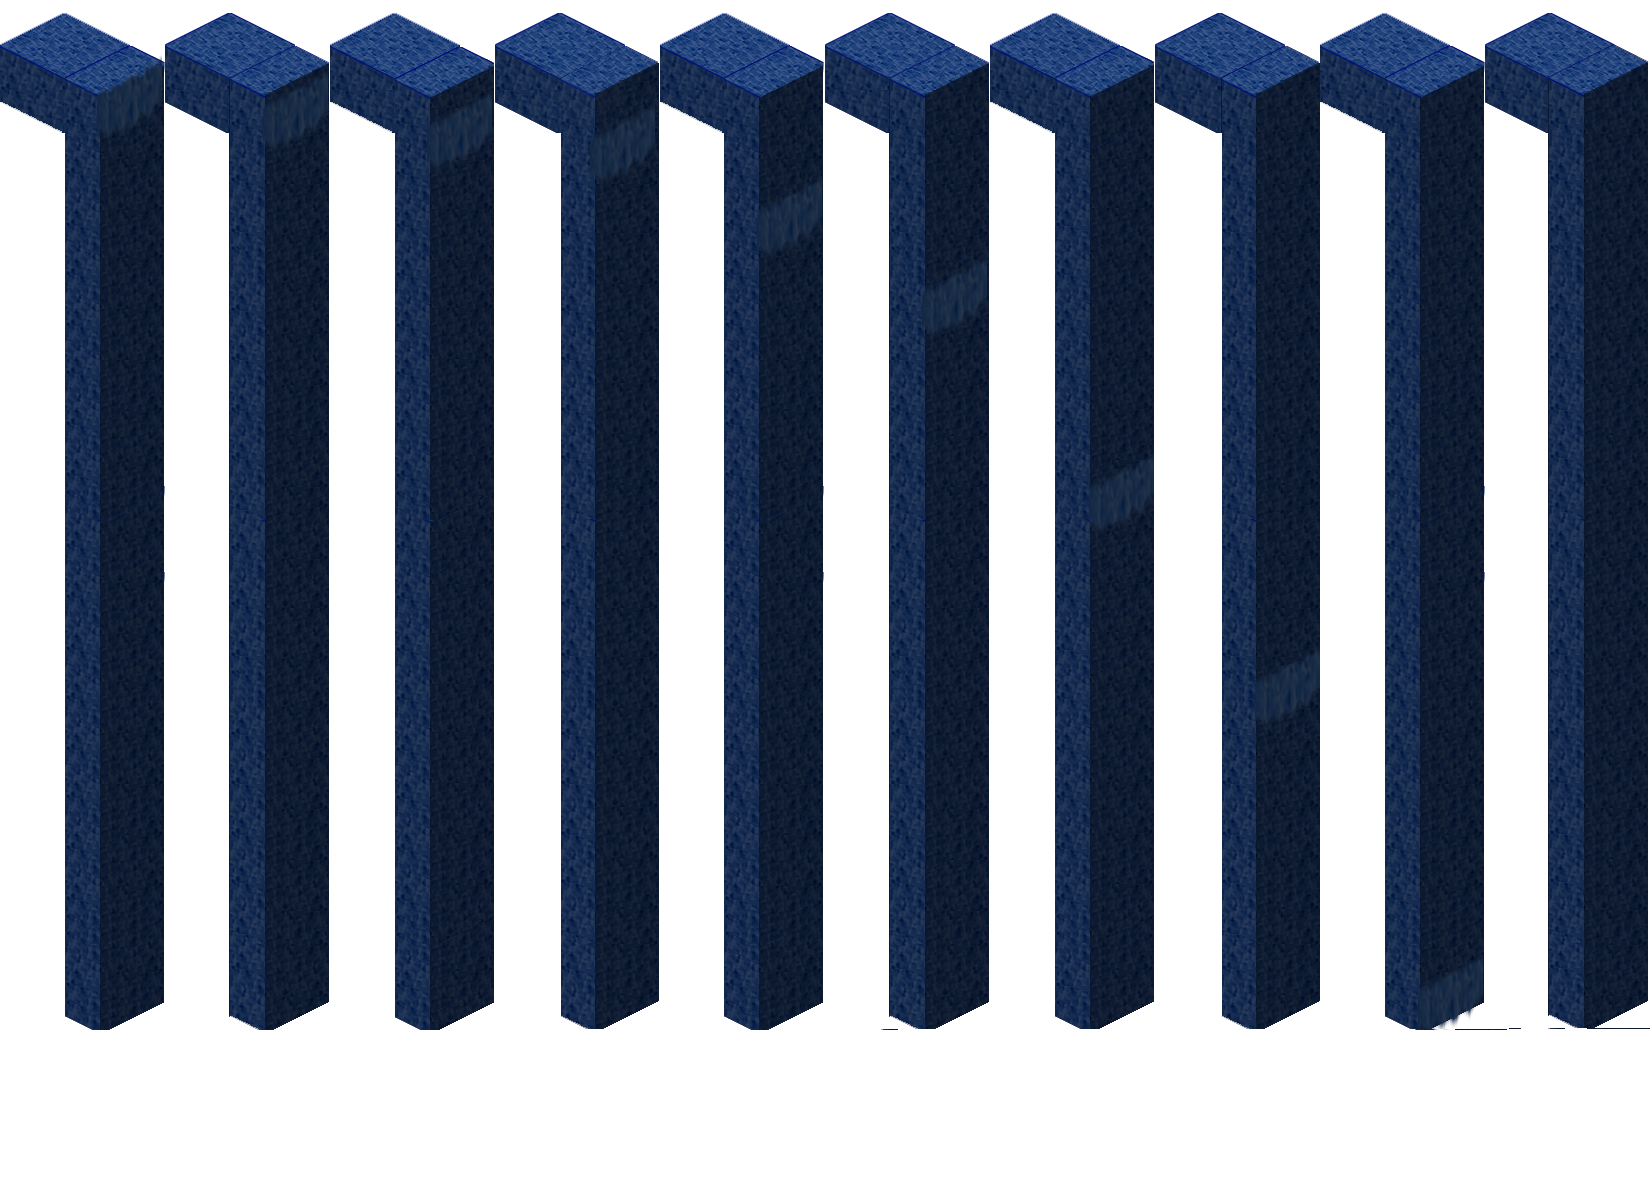
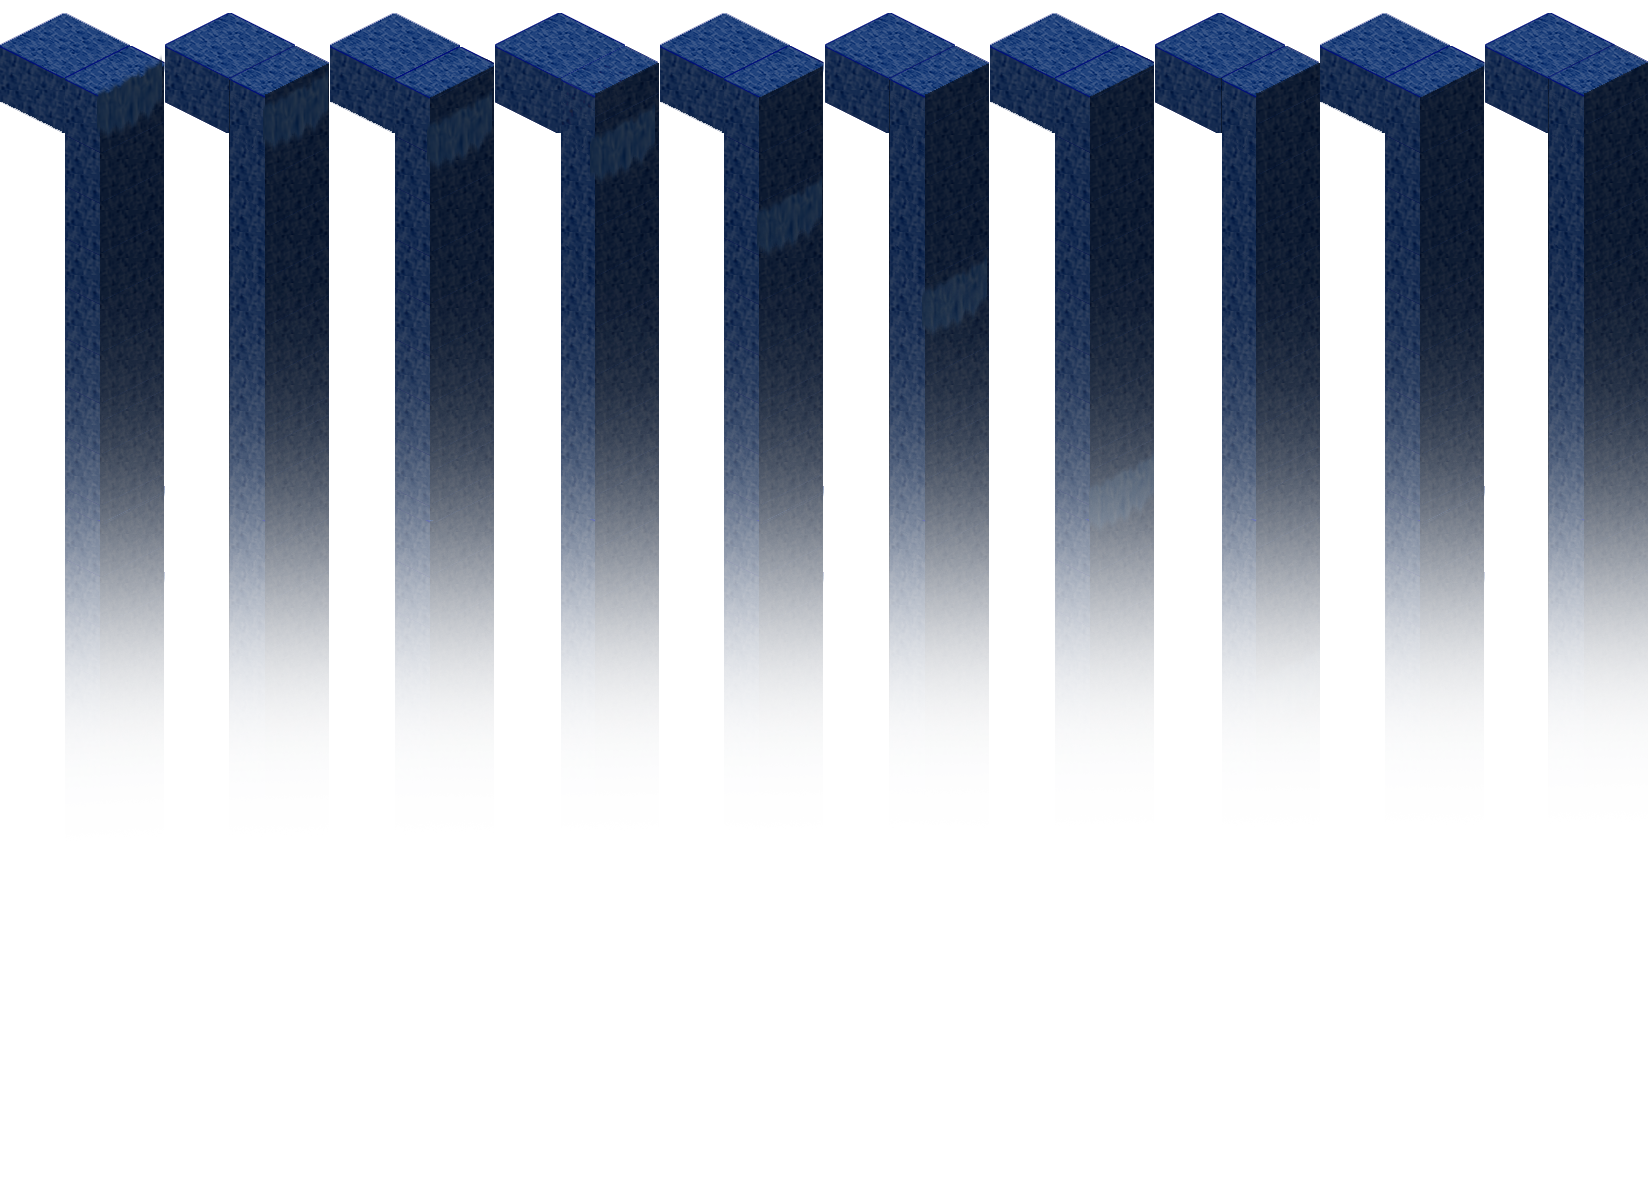
modify the waterfall transparent

diff --git a/web/game/tiles.js b/web/game/tiles.js
@@ -1795,7 +1795,7 @@ function drawMap(data) {
 	for (i = 0; i < mapHeight; i++) {
 		for (j = 0; j < mapWidth; j++) {
 			var terrain = data[i][j];
-            if (terrain == 5 || terrain == 5.1 || terrain == 5.2) blockMaps[i][j] = 1;
+            if (terrain == 5 || terrain == 5.1 ||terrain == 5.12|| terrain == 5.2 || terrain == 5.22) blockMaps[i][j] = 1;
             if (terrain == 5) {
             	img = imageNumber(terrain);
 		       var spriteSheet = new createjs.SpriteSheet({
@@ -1804,7 +1804,7 @@ function drawMap(data) {
 		               "animations": {
 		               "water":[0,1]
 		               },
-		               framerate: 2
+		               framerate: 3
 		           });
 		       	maps[i][j] = new createjs.Sprite(spriteSheet, "water");
 		       	maps[i][j].name = i + "," + j + "," + tile_type + "," + tile_info_address;
@@ -1817,7 +1817,23 @@ function drawMap(data) {
 				maps[i][j].addEventListener("click", function(event) {
 					clearSelectionEffects();
 				});
-            } else if (terrain == 5.1) {
+            } else if (terrain == 1.1) {
+		      	img = imageNumber(terrain);
+				maps[i][j] = new createjs.Bitmap(img);
+		       	maps[i][j].name = i + "," + j + "," + tile_type + "," + tile_info_address;
+		       	maps[i][j].scaleX = 1.6;
+		       	maps[i][j].scaleY = 1.6;
+				maps[i][j].x = (j-i) * 65 - 433;
+				maps[i][j].y = (j+i) * 32.5 -328;
+				maps[i][j].regX = 65;
+				maps[i][j].regY = 32.5;
+				maps[i][j].addEventListener("mouseover",mouseOver);
+				maps[i][j].addEventListener("mouseout", mouseOut);
+				maps[i][j].addEventListener("click", function(event) {
+					clearSelectionEffects();
+				});
+		      
+		      }else if (terrain == 5.1 || terrain == 5.12) {
 		       img = imageNumber(terrain);
 		       var spriteSheet = new createjs.SpriteSheet({
 		               "images": [img],
@@ -1839,11 +1855,11 @@ function drawMap(data) {
 					clearSelectionEffects();
 				});
 		      
-		      }else if (terrain == 5.2) {
+		      }else if (terrain == 5.2 || terrain == 5.22) {
 		       img = imageNumber(terrain);
 		       var spriteSheet = new createjs.SpriteSheet({
 		               "images": [img],
-		               "frames": {"regX": 0, "height": 1200, "count": 10, "regY": 0, "width": 165 },
+		               "frames": {"regX": 30, "height": 1200, "count": 10, "regY": 20, "width": 165 },
 		               "animations": {
 		               "water":[0,1,2,3,4,5,6,7,8,9]
 		               },
@@ -2109,6 +2125,10 @@ function imageNumber(number) {
 			tile_info_address = "graphics/tile_info/tile_mud.png";
 			tile_type = "Mud";
 			return "graphics/tile/3d_tile/mud2.png";
+		case 1.1 :
+			tile_info_address = "graphics/tile_info/tile_mud.png";
+			tile_type = "Mud";
+			return "graphics/tile/3d_tile/rock2.png";
 		case 2 :
 			tile_info_address = "graphics/tile_info/tile_stone_bridge.png";
 			tile_type = "Stone Bridge";
@@ -2132,11 +2152,21 @@ function imageNumber(number) {
 			tile_type = "Water";
 			//return "graphics/tile/3d_tile/ss_water.png";
 			return "graphics/tile/3d_tile/waterTest.png";
+		case 5.12 :
+			tile_info_address = "graphics/tile_info/tile_water.png";
+			tile_type = "Water";
+			//return "graphics/tile/3d_tile/ss_water.png";
+			return "graphics/tile/3d_tile/waterTest2.png";
 		case 5.2 :
 			tile_info_address = "graphics/tile_info/tile_water.png";
 			tile_type = "Water";
 			//return "graphics/tile/3d_tile/ss_water.png";
 			return "graphics/tile/3d_tile/water_test2.png";
+		case 5.22 :
+			tile_info_address = "graphics/tile_info/tile_water.png";
+			tile_type = "Water";
+			//return "graphics/tile/3d_tile/ss_water.png";
+			return "graphics/tile/3d_tile/water_test3.png";
 		// case 5 :
 		// 	tile_info_address = "graphics/tile_info/tile_water.png";
 		// 	tile_type = "Water";
